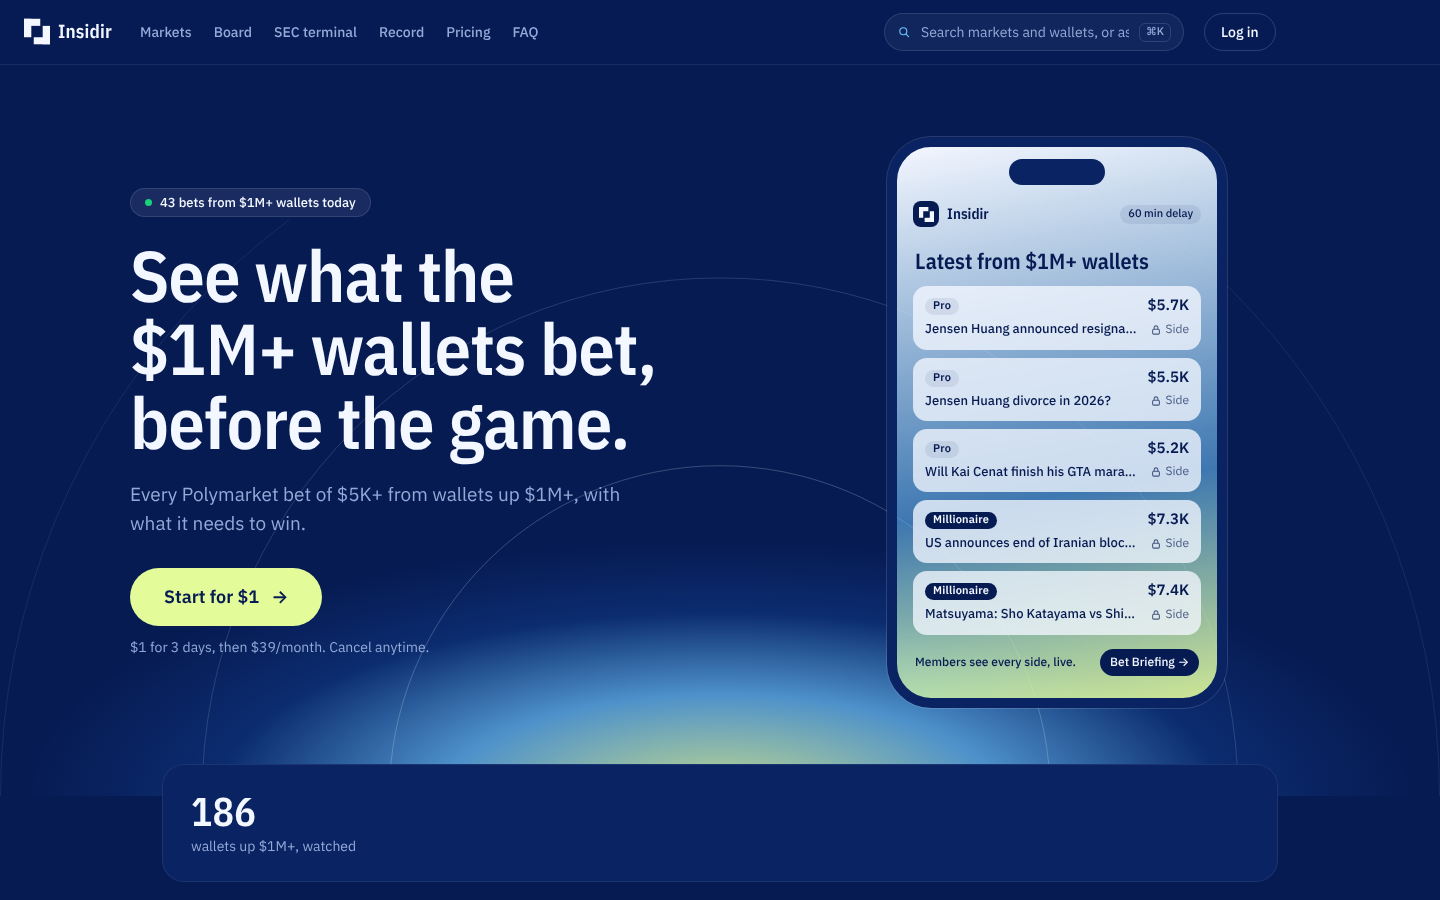
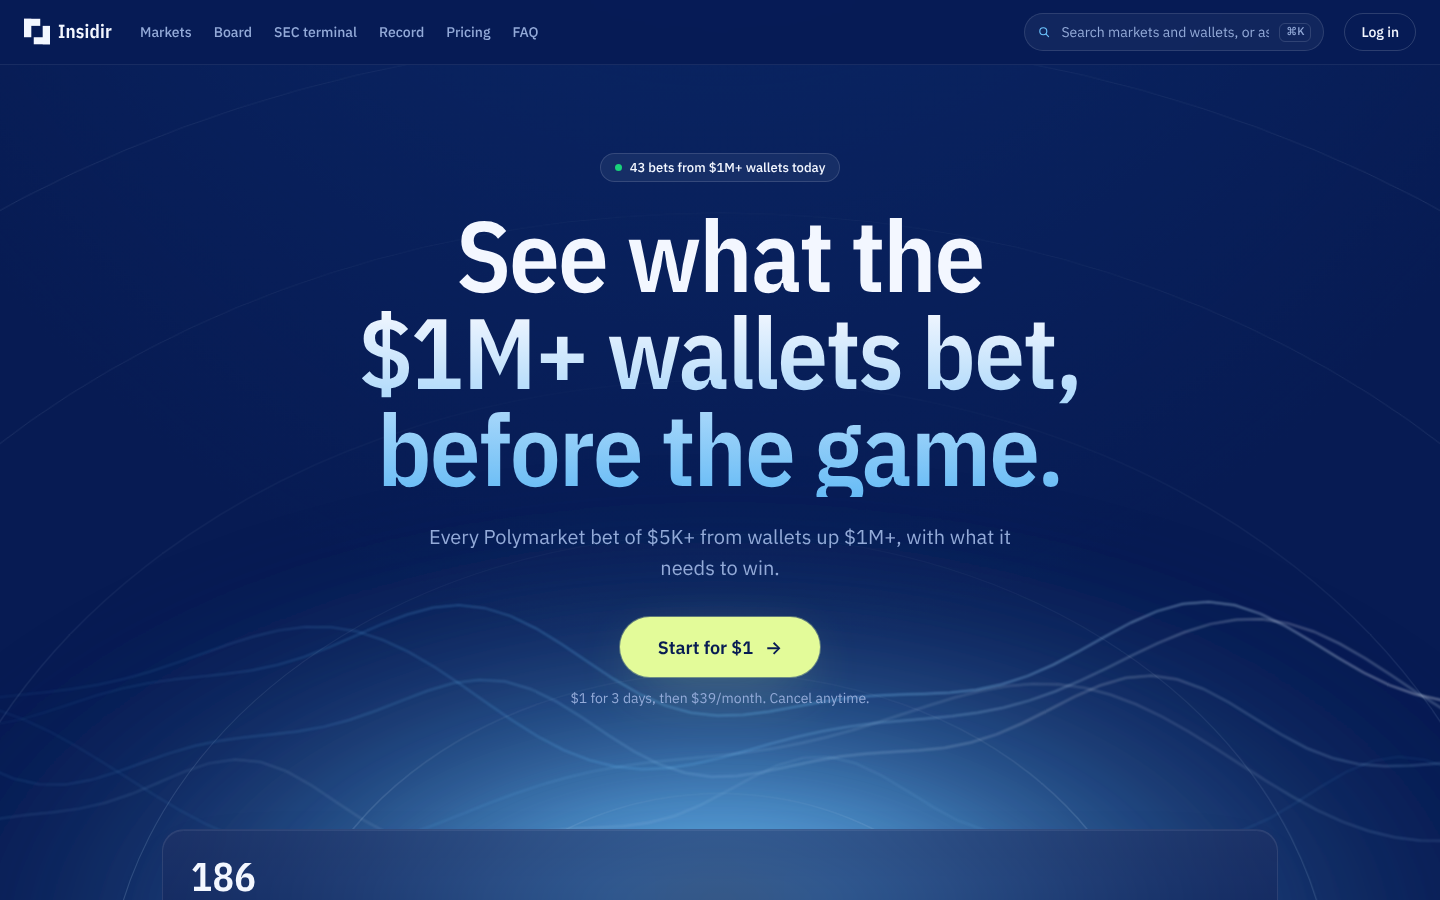
Cover hero: the glow rises from the bottom like the brand board's covers; phones start the hero at the top; nav Start fits on phones
Claude-Session: https://claude.ai/code/session_013t6J84dbkTPdjdMU1vGwgF

diff --git a/components/brand/landing/Waves.tsx b/components/brand/landing/Waves.tsx
@@ -27,10 +27,10 @@ export function Waves() {
   return (
     <svg className="c-waves" viewBox={`0 0 ${W} ${H}`} preserveAspectRatio="xMidYMax slice" aria-hidden="true" focusable="false">
       <defs>
-        <radialGradient id="cw-core" cx="50%" cy="100%" r="62%">
-          <stop offset="0%" style={{ stopColor: "var(--t-cta)", stopOpacity: 0.55 }} />
-          <stop offset="14%" style={{ stopColor: "var(--t-blue)", stopOpacity: 0.7 }} />
-          <stop offset="46%" style={{ stopColor: "var(--t-blue)", stopOpacity: 0.22 }} />
+        <radialGradient id="cw-core" cx="50%" cy="50%" r="50%">
+          <stop offset="0%" style={{ stopColor: "var(--t-cta)", stopOpacity: 0.5 }} />
+          <stop offset="12%" style={{ stopColor: "var(--t-blue)", stopOpacity: 0.95 }} />
+          <stop offset="45%" style={{ stopColor: "var(--t-blue)", stopOpacity: 0.38 }} />
           <stop offset="100%" style={{ stopColor: "var(--t-page)", stopOpacity: 0 }} />
         </radialGradient>
         <linearGradient id="cw-line" x1="0" x2="1" y1="0" y2="0">
@@ -42,13 +42,13 @@ export function Waves() {
         </linearGradient>
         <linearGradient id="cw-ring" x1="0" x2="0" y1="0" y2="1">
           <stop offset="0%" style={{ stopColor: "var(--t-text)", stopOpacity: 0.05 }} />
-          <stop offset="100%" style={{ stopColor: "var(--t-blue)", stopOpacity: 0.55 }} />
+          <stop offset="100%" style={{ stopColor: "var(--t-blue)", stopOpacity: 0.85 }} />
         </linearGradient>
         <filter id="cw-blur" x="-20%" y="-20%" width="140%" height="140%"><feGaussianBlur stdDeviation="28" /></filter>
         <filter id="cw-soft"><feGaussianBlur stdDeviation="1.2" /></filter>
       </defs>
       {/* The glow, then the arcs, then the waves of light. */}
-      <ellipse className="c-waves__core" cx={W / 2} cy={H + 40} rx={760} ry={520} fill="url(#cw-core)" filter="url(#cw-blur)" />
+      <ellipse className="c-waves__core" cx={W / 2} cy={H - 10} rx={820} ry={430} fill="url(#cw-core)" filter="url(#cw-blur)" />
       <g className="c-waves__rings">
         {RINGS.map((r, i) => <ellipse key={r} className="c-waves__ring" style={{ animationDelay: `${-i * 1.4}s` }} cx={W / 2} cy={H + 60} rx={r} ry={r * 0.78} fill="none" stroke="url(#cw-ring)" strokeWidth={i < 2 ? 1.4 : 1} />)}
       </g>

diff --git a/qa/e2e/brand.spec.ts b/qa/e2e/brand.spec.ts
@@ -48,7 +48,7 @@ test("landing: the terminal in five blocks; the board 60 minutes late with sides
     if (at) expect(Date.now() - new Date(at).getTime()).toBeGreaterThanOrEqual(59 * 60_000);
   }
   await expect(page.getByTestId("landing-board")).toContainText("Members see these the minute they land, with the side.");
-  await expect(page.getByTestId("what-you-get")).toContainText("BEFORE YOU BET");
+  await expect(page.getByTestId("what-you-get")).toContainText("Before you bet");
   await expect(page.getByTestId("what-you-get")).toContainText("WHILE YOU HOLD");
   await expect(page.getByTestId("what-you-get")).toContainText("AFTER IT SETTLES");
   await expect(page.getByTestId("landing-record").getByRole("link", { name: /Every settled bet, losses included/ }).or(page.getByTestId("landing-record").getByTestId("t-empty"))).toHaveCount(1);
@@ -216,8 +216,8 @@ test("a member's home is the workspace: panels (board, watch my bet, alerts, wal
   // Their desk: copies, follows, pings; never a stat that reads 0.
   const desk = page.getByTestId("home-desk");
   await expect(desk.getByTestId("desk-follows")).not.toContainText(/^0$/m);
-  // The terminal's type: numbers in IBM Plex Mono; no sidebar.
-  expect(await page.getByTestId("home-board").locator("td").first().evaluate(e => getComputedStyle(e).fontFamily)).toMatch(/plex.?mono|ui-monospace/i);
+  // The type: IBM Plex Sans with tabular figures; no sidebar.
+  expect(await page.getByTestId("home-board").locator("td").first().evaluate(e => getComputedStyle(e).fontFamily)).toMatch(/plex.?sans/i);
   await expect(page.locator(".b-sidebar")).toHaveCount(0);
   // Ask Insidir: an example question answered from Insidir's data (or "I don't have that."), never empty.
   await page.getByTestId("home-ask-example").first().click();

diff --git a/app/terminal.css b/app/terminal.css
@@ -162,7 +162,7 @@ html:has(.b-root), body:has(.b-root) { background: var(--t-page); }
   .b-root .t-top.b-nav { height: 48px; gap: 8px; padding: 0 8px; }
   .t-top__cmd { display: none; position: absolute; left: 0; right: 0; top: 48px; z-index: 45; max-width: none; padding: 8px; background: var(--t-page); border-bottom: 1px solid var(--t-line); }
   .b-root .t-top.is-searching .t-top__cmd { display: block; }
-  .t-clock, .t-tag, .b-root .t-top .t-btn, .b-root .t-top .t-start { display: none !important; }
+  .t-clock, .t-tag, .b-root .t-top .t-btn { display: none !important; }
   .b-root .t-searchbtn { display: inline-flex; width: 44px; height: 44px; }
   .b-root .t-top .b-burger { width: 44px; height: 44px; }
   .t-statusbar { display: none; }
@@ -271,3 +271,6 @@ html:has(.b-root), body:has(.b-root) { background: var(--t-page); }
 .b-root .t-panel { background: linear-gradient(180deg, rgb(var(--t-text-rgb) / .06), rgb(var(--t-text-rgb) / .015)), rgb(var(--t-page-rgb) / .55); border: 1px solid rgb(var(--t-text-rgb) / .1);
   box-shadow: inset 0 1px 0 rgb(var(--t-text-rgb) / .07), 0 30px 80px -50px rgb(var(--t-page-rgb) / .9) !important; }
 .b-root .t-table th { background: transparent; }
+/* Phones: a compact Start for $1 in the top bar (visitors). */
+@media (max-width: 899px) { .b-root .t-top .t-start { height: 36px; padding: 0 14px; font-size: 13px; gap: 6px; white-space: nowrap; } .b-root .t-top .t-start .b-arw { display: none; } }
+@media (max-width: 359px) { .b-root .t-top .t-start { display: none; } }

diff --git a/app/landing-clean.css b/app/landing-clean.css
@@ -129,7 +129,7 @@
 .c-faq__i p { margin: 0 0 18px; color: var(--t-muted); font: 400 16px/1.6 var(--t-body-font); }
 
 /* The top bar's Start for $1 waits until the hero's button has scrolled away. */
-.t-landing:not([data-cta-out]) .t-top .t-start { visibility: hidden; }
+.t-landing:not([data-cta-out]) .t-top .t-start { display: none !important; }
 
 /* Scroll motion: blocks rise in once, gently (components/brand/landing/Reveal.tsx); nothing under reduced motion. */
 .c-hero__copy > *, .c-hero__art { animation: c-rise .8s cubic-bezier(.2, .8, .2, 1) both; }
@@ -249,3 +249,4 @@
   .c-tile { min-height: 220px; }
 }
 @media (prefers-reduced-motion: reduce) { .c-waves__flow, .c-waves__ring, .c-waves__core { animation: none !important; } }
+@media (max-width: 899px) { .c-hero { min-height: 0; place-items: start center; padding: 44px 18px 240px; } }

diff --git a/test/landing-page.test.ts b/test/landing-page.test.ts
@@ -38,7 +38,7 @@ describe("V2 landing page", () => {
     // The terminal chrome first (no nav Start button on the landing), then the five blocks in order.
     // The top bar's Start for $1 waits until the hero's button has scrolled away (components/brand/landing/Reveal.tsx).
     expect(landing).toContain("<TerminalChrome election=");
-    expect(read("app/landing-clean.css")).toContain(".t-landing:not([data-cta-out]) .t-top .t-start { visibility: hidden; }");
+    expect(read("app/landing-clean.css")).toContain(".t-landing:not([data-cta-out]) .t-top .t-start { display: none !important; }");
     const order = ["<Hero d={d} />", "<Board d={d} />", "<WhatYouGet />", "<Record d={d} />", "<Access />", "<Faqs />"];
     const at = order.map(m => landing.indexOf(m));
     for (const [i, m] of order.entries()) expect(at[i], m).toBeGreaterThan(-1);

diff --git a/qa/e2e/states.spec.ts b/qa/e2e/states.spec.ts
@@ -27,7 +27,8 @@ test("one primary action: pricing and legal pages show exactly one; the landing'
   for (const path of ["/pricing", "/terms", "/privacy"]) {
     await page.goto(path);
     // Pictures of the app are inert, and a closed laptop panel isn't shown: neither is an action on this page.
-    const primaries = await page.locator("main .b-primary").evaluateAll(els => els.filter(e => (e as HTMLElement).offsetParent !== null && !e.closest("[inert]")).length);
+    // The page's own primary: a pill (.b-primary) or the Start for $1 (.t-cta), never counting the top bar's.
+    const primaries = await page.locator("main :is(.b-primary, .t-cta)").evaluateAll(els => els.filter(e => (e as HTMLElement).offsetParent !== null && !e.closest("[inert]") && !e.closest(".t-chrome, .b-menu")).length);
     expect(primaries, path).toBe(1);
   }
 });

diff --git a/qa/e2e/final.spec.ts b/qa/e2e/final.spec.ts
@@ -224,7 +224,7 @@ test("pop-ups: never in the first 15 s, once a session; Esc, a tap outside and C
   await context.clearCookies();
   const p2 = await context.newPage();
   await p2.clock.install();
-  await p2.goto("/");
+  await p2.goto("/board");
   await p2.waitForFunction(() => (window as unknown as { __bmOK?: boolean }).__bmOK === true);
   await p2.clock.runFor(16_000);
   await p2.evaluate(() => window.dispatchEvent(new Event("insidir:free-used")));
